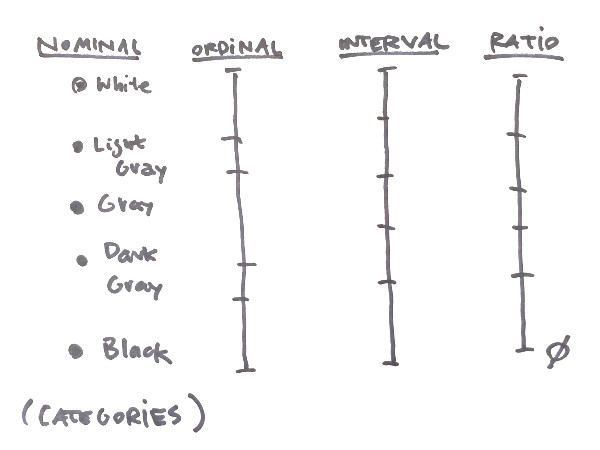
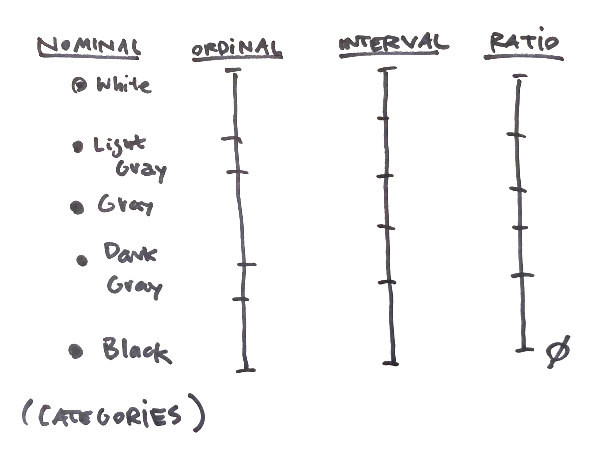
yinz

diff --git a/notes/2026/260630_yinz/index.html b/notes/2026/260630_yinz/index.html
@@ -1,0 +1,52 @@
+<html>
+<title>In yinz we trust</title>
+<link rel="stylesheet" href="/style/basic.css">
+<link rel="stylesheet" href="/style/blockquote.css">
+<header>
+  <h1><span id="This Endless Frame">This Endless Frame</span></h1>
+  | <a href="/">Home</a> 
+  | <a href="/data">Data</a> 
+  | <a href="/color">Color</a> 
+  | <a href="/3d">3D</a> 
+  | <a href="/rivers">Rivers</a> 
+  | <a href="/notes">Notes</a> 
+  | <a href="/chirps">Chirps</a> | 
+  <hr>
+</header>
+<h3>In yinz we trust</h3>
+<p>I was walking down the street in Montr&eacute;al when I saw a "&eacute;cureuil avec un masque de ski".</p>
+<p><img src="/images/2026/june/2606-ecureuil_avec_un_masque_de_ski.jpg" width=600px></p>
+<details>
+  <summary><small>Attribution</small></summary>
+  <p>
+    <small>Squirrel in a ski mask sticker, unknown artist<br>Montr&eacute;al, Qu&eacute;bec<br>June 2026<br>Photo: NMoroney</a></small>
+  </p>
+</details>
+
+<p>Spent a whole day getting to and from YUL after the <a href="https://x.com/yulaeroport/status/2067332101679063451">airport power went out</a>. </p>
+<p>I was walking through the <a href="https://en.wikipedia.org/wiki/Mexican_War_Streets">Mexican War Streets</a> and saw a <a href="https://www.reddit.com/r/language/comments/12nhvlq/is_there_any_language_that_differentiate_z_from_ƶ/">barred z</a> <a href="https://en.wikipedia.org/wiki/Yinz">yinz</a>.</p>
+<p><img src="/images/2026/june/2606-in_yinz_we_trust.jpg" width=600px></p>
+<details>
+  <summary><small>Attribution</small></summary>
+  <p>
+    <small>Hand-written "In Yinz We Trust" garage door message, unknown author<br>Pittsburgh, PA<br>June 2026<br>Photo: NMoroney</a></small>
+  </p>
+</details>
+
+<p>Spent a lot of time on 376, but avoided the Commercial Street Bridge <a href="https://www.instagram.com/reel/DaVcy14CKVn/">demolition</a>.</p>
+<p>Then walking in Greensburg, I saw the third eye smiling.</p>
+<p><img src="/images/2026/june/2606-third_eye_smiling.jpg" width=600px></p>
+<details>
+  <summary><small>Attribution</small></summary>
+  <p>
+    <small>Third eye smiling sticker, unknown artist<br>Greensburg, PA<br>June 2026<br>Photo: NMoroney</a></small>
+  </p>
+</details><br><small>2026-06-30<br>NMoroney</small>
+<footer>
+<hr>
+  | <a href="https://numanticsolutions.com">Numantic Solutions</a> 
+  | <a href=/pages/links>Links</a>
+  | <a href=/pages/colophon>Colophon</a>
+  | <a href=/pages/principles>Principles</a> |
+</footer>
+</html>